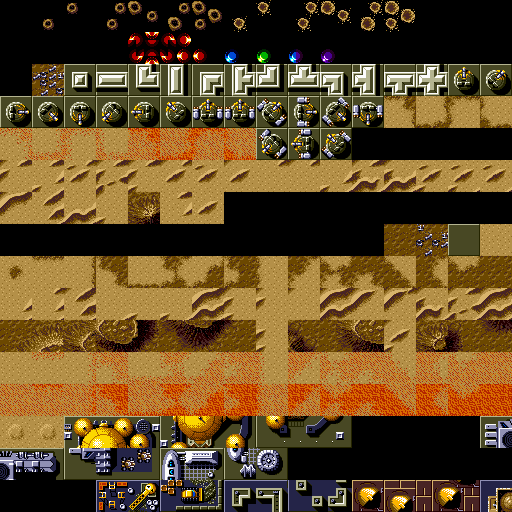
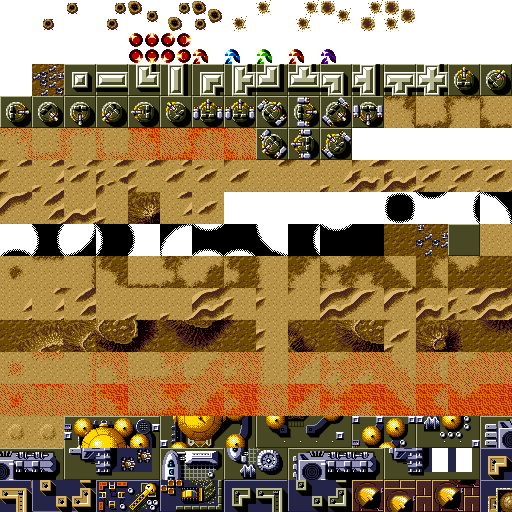
update tiles texture

diff --git a/DuneGround.h b/DuneGround.h
@@ -58,7 +58,7 @@ struct DuneGround
         for (int x=0; x<n.width; ++x)
             for (int y=0; y<n.height; ++y)
             {
-                unsigned char v = 0xB0;
+                unsigned char v = 0x7F;
                 if (in(x,y))
                      v = (*this)[x][y];
                 n[x][y] = v;
@@ -99,7 +99,7 @@ struct DuneGround
     {
         for (int x=0; x<width; ++x)
             for (int y=0; y<height; ++y)
-                (*this)[x][y] = 0xB0;
+                (*this)[x][y] = 0x7F;
         for (int x=0; x<twidth(); ++x)
             for (int y=0; y<theight(); ++y)
                 this->t(x,y) = Dust;
@@ -277,13 +277,13 @@ struct DuneGround
 
         int k = 0;
         int mask = 0;
-        int id = 0xB0;
+        int id = 0x7F;
         if (types_mask & (1<<Ground))
         {
             k = GetK(x,y,Ground);
             id = 0x80+k;
             if (k == 0)
-                id = 0xB0;
+                id = 0x7F;
             if ( k == 16) // point
                 id = 0x80;
             if ( k == 17)

diff --git a/Dunes.h b/Dunes.h
@@ -37,7 +37,7 @@ int DunemaskDist(int a,int b)
 void DunemaskInit()
 {
 	memset(dunemask,-1,sizeof(dunemask));
-	dunemask[0xB0]=make_dunemask(0,0,0,0,0,0,0,0,0);
+	dunemask[0x7F]=make_dunemask(0,0,0,0,0,0,0,0,0);
 	dunemask[0x50]=make_dunemask(1,0,1,1,0,0,0,0,0);
 	dunemask[0x51]=make_dunemask(0,0,1,0,0,1,1,0,1);
 	dunemask[0x52]=make_dunemask(0,0,1,0,1,0,0,0,0);

diff --git a/GLWidget.cpp b/GLWidget.cpp
@@ -728,7 +728,7 @@ void GLWidget::paintGL()
 		{
             for (int x=0; x<duneGround.twidth(); ++x)
 			{
-				static int tid[]={0xB0,0x8F,0xC0,0xCF,0x9F};
+                static int tid[]={0x7F,0x8F,0xBF,0xCF,0x9F};
 				int id = duneGround.t(x,y);
 				id = tid[id];
 				int idx = id&15;
